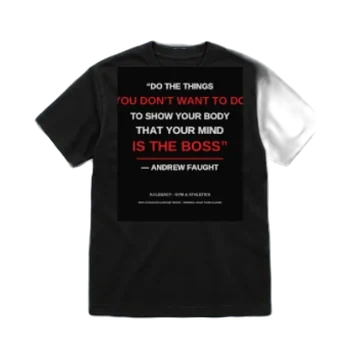
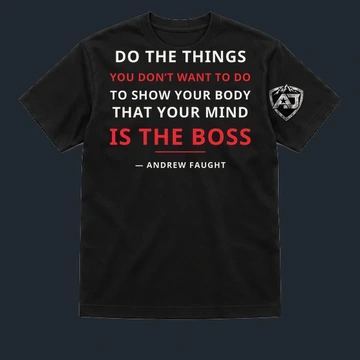
Update Dispatch tee previews and Mind Over Body lettering

diff --git a/assets/first-responders/index.html b/assets/first-responders/index.html
@@ -34,8 +34,8 @@ document.querySelectorAll('.customizer input').forEach(el=>el.addEventListener('
 document.getElementById('copySpec').addEventListener('click',async()=>{try{await navigator.clipboard.writeText(specification());document.getElementById('selectionWarning').textContent='Customization details copied.'}catch(e){document.getElementById('selectionWarning').textContent='Copy unavailable; select and copy the summary above.'}});
 const stripeKey=()=>item.replace(/-(tee|hoodie)$/,'');
 const defaultStripe={'fire-rescue-crest':'Red','fire-rescue-helmet':'Red','ems-flag':'White','dispatch-flag':'Gold','water-life':'Orange'};
-const oldRender=render;let lastDesign='';render=function(){oldRender();if(item!==lastDesign){const stripe=defaultStripe[stripeKey()];$('stripe-label').hidden=!stripe;$('swatches').style.display=stripe?'':'none';document.querySelectorAll('input[name=thinLine]').forEach(x=>{x.disabled=!stripe;x.checked=x.value===stripe});if(item.startsWith('water-')){document.getElementById('garmentColor').value=item.startsWith('water-swift')&&type==='tee'?'Navy':type==='hoodie'?'Charcoal':'Black'}lastDesign=item}refreshSpec()};render();
-</script><script src="../preview-stripes.js?v=2"></script><script src="../model-personalizer.js?v=garment-standard-4"></script><script>
+const oldRender=render;let lastDesign='';render=function(){oldRender();if(item!==lastDesign){if(group==='dispatch'&&type==='tee')$('placement').value='Full Back';const stripe=defaultStripe[stripeKey()];$('stripe-label').hidden=!stripe;$('swatches').style.display=stripe?'':'none';document.querySelectorAll('input[name=thinLine]').forEach(x=>{x.disabled=!stripe;x.checked=x.value===stripe});if(item.startsWith('water-')){document.getElementById('garmentColor').value=item.startsWith('water-swift')&&type==='tee'?'Navy':type==='hoodie'?'Charcoal':'Black'}lastDesign=item}refreshSpec()};render();
+</script><script src="../preview-stripes.js?v=2"></script><script src="../model-personalizer.js?v=dispatch-tee-artwork"></script><script>
 const livePersonalizer=AJModelPersonalizer.create(document.getElementById("livePreview"));
 const tankLabel=document.createElement("label");tankLabel.textContent="Garment style";
 const photoStyle=document.createElement("select");photoStyle.id="photo-style";
@@ -48,6 +48,12 @@ photoStyle.addEventListener("change",()=>{
  if(placement.selectedOptions[0]?.disabled)placement.selectedIndex=0;
  refreshSpec();
 });
-function renderPersonalizedPhoto(){const val=id=>document.getElementById(id)?.value||"";const lines=[...document.querySelectorAll("input[name=thinLine]:checked")].map(x=>x.value);const k9=location.pathname.includes("/k9/");const keys={"k9-handler-partner":"handler-partner","k9-strength-service":"strength-for-service","k9-search-protect":"search-protect"};livePersonalizer.draw({source:k9?"assets/k9/"+keys[item]+".webp":"assets/first-responders/"+(item.startsWith("water-")?waterImage(item,type):item+"-tee.jpg"),stripe:AJPreviewStripes.responder[stripeKey()],box:k9?[0,0,1,1]:item.startsWith("water-")?[.26,.33,.50,.40]:[.23,.18,.64,.80],title:document.getElementById("productTitle").textContent,hoodie:photoStyle.value==="Hoodie"||(photoStyle.value==="Collection default"&&type==="hoodie"),tank:photoStyle.value==="Tank Top",color:val("garmentColor"),placement:val("placement"),lines,name:val("agency"),department:"",badge:"",front:val("frontText"),back:val("backText")});}
+const dispatchTeeArtwork={
+ 'dispatch-flag': {file:'dispatch-flag-print.webp',stripe:['gold','y',[[0,.37,1,.17]]]},
+ 'dispatch-headset': {file:'dispatch-headset-print.webp'}
+};
+function renderPersonalizedPhoto(){const val=id=>document.getElementById(id)?.value||"";const lines=[...document.querySelectorAll("input[name=thinLine]:checked")].map(x=>x.value);const k9=location.pathname.includes("/k9/");const keys={"k9-handler-partner":"handler-partner","k9-strength-service":"strength-for-service","k9-search-protect":"search-protect"};const tee=photoStyle.value==='T-shirt'||(photoStyle.value==='Collection default'&&type==='tee');
+const dispatchArt=tee&&dispatchTeeArtwork[item];
+livePersonalizer.draw({rawArt:Boolean(dispatchArt),source:dispatchArt?'assets/first-responders/'+dispatchArt.file:k9?"assets/k9/"+keys[item]+".webp":"assets/first-responders/"+(item.startsWith("water-")?waterImage(item,type):item+"-tee.jpg"),stripe:dispatchArt?dispatchArt.stripe:AJPreviewStripes.responder[stripeKey()],box:dispatchArt||k9?[0,0,1,1]:item.startsWith("water-")?[.26,.33,.50,.40]:[.23,.18,.64,.80],title:document.getElementById("productTitle").textContent,hoodie:photoStyle.value==="Hoodie"||(photoStyle.value==="Collection default"&&type==="hoodie"),tank:photoStyle.value==="Tank Top",color:val("garmentColor"),placement:val("placement"),lines,name:val("agency"),department:"",badge:"",front:val("frontText"),back:val("backText")});}
 const beforePhotoSpec=refreshSpec;refreshSpec=function(){beforePhotoSpec();renderPersonalizedPhoto()};renderPersonalizedPhoto();document.querySelectorAll(".customizer input,.customizer select").forEach(x=>x.addEventListener("input",renderPersonalizedPhoto));
 </script><script src="../garment-catalog.js?v=inside-neck-1"></script><script src="../service-personalization.js?v=garment-standard-4"></script><script src="../../assets/storefront.js?v=inside-neck-1"></script></body></html>

diff --git a/assets/model-personalizer.js b/assets/model-personalizer.js
@@ -6,14 +6,14 @@ const root=new URL('../',script.src);
 const cache=new Map();
 const colors={Black:'#17191d',Charcoal:'#363a41',Navy:'#152b49','Royal Blue':'#1769aa',White:'#eeeeee','Heather Gray':'#8b9096',Red:'#c8242b',Orange:'#f47721',Olive:'#596245',Blue:'#1769aa',Purple:'#8548a9',Gold:'#e3b126',Silver:'#a6a8ab',Green:'#527b48'};
 function load(url){url=new URL(url,root).href;if(!cache.has(url))cache.set(url,new Promise((resolve,reject)=>{const im=new Image();im.onload=()=>resolve(im);im.onerror=()=>reject(new Error('Preview image could not load'));im.src=url}));return cache.get(url)}
-function artwork(im,box,lineColors=[],stripe){
+function artwork(im,box,lineColors=[],stripe,rawArt=false){
  const c=document.createElement('canvas');
  c.width=Math.max(1,Math.round(im.naturalWidth*box[2]));
  c.height=Math.max(1,Math.round(im.naturalHeight*box[3]));
  const x=c.getContext('2d',{willReadFrequently:true});
  x.drawImage(im,im.naturalWidth*box[0],im.naturalHeight*box[1],im.naturalWidth*box[2],im.naturalHeight*box[3],0,0,c.width,c.height);
  const p=x.getImageData(0,0,c.width,c.height),d=p.data;
- for(let i=0;i<d.length;i+=4){
+ for(let i=0;!rawArt&&i<d.length;i+=4){
   const hi=Math.max(d[i],d[i+1],d[i+2]),lo=Math.min(d[i],d[i+1],d[i+2]);
   const colorful=hi-lo>28&&hi>50;
   d[i+3]=Math.round(d[i+3]*(colorful?Math.min(1,(hi-30)/60):Math.max(0,Math.min(1,(hi-55)/55))));
@@ -50,7 +50,7 @@ window.AJModelPersonalizer={async artwork(source,box,lines,stripe){return artwor
 const [template,source,tankBack,logo]=await Promise.all([
  load(v.tank?'assets/mockups/individual/tank.webp':'assets/studio-garments.webp'),
  load(v.source),v.tank?load('assets/mockups/individual/tank-back.webp'):null,load('assets/logo.png')
-]);if(version!==sequence)return;canvas.width=1536;canvas.height=920;const ctx=canvas.getContext('2d');ctx.drawImage(v.tank?tankPhoto(template,v.color):photo(template,v.hoodie,false,v.color),0,0);ctx.drawImage(v.tank?tankPhoto(tankBack,v.color):photo(template,v.hoodie,true,v.color),768,0);delete canvas.dataset.previewError;const art=artwork(source,v.box||[.22,.36,.20,.36],v.lines,v.stripe);let cx=(back?1152:384),top=v.hoodie?235:185,w=235,h=v.hoodie?190:310;
+]);if(version!==sequence)return;canvas.width=1536;canvas.height=920;const ctx=canvas.getContext('2d');ctx.drawImage(v.tank?tankPhoto(template,v.color):photo(template,v.hoodie,false,v.color),0,0);ctx.drawImage(v.tank?tankPhoto(tankBack,v.color):photo(template,v.hoodie,true,v.color),768,0);delete canvas.dataset.previewError;const art=artwork(source,v.box||[.22,.36,.20,.36],v.lines,v.stripe,v.rawArt);let cx=(back?1152:384),top=v.hoodie?235:185,w=235,h=v.hoodie?190:310;
  if(/Chest/.test(placement)){cx=/Right/.test(placement)?330:438;top=v.hoodie?190:175;w=70;h=75;}else if(/Sleeve/.test(placement)){cx=/Right/.test(placement)?245:520;top=210;w=36;h=48;}else if(placement==='Upper Back'){top=v.hoodie?215:155;w=170;h=145;}else if(back){top=v.hoodie?225:160;w=235;h=335;}
  if(v.tank)top=Math.max(top,220);
  if(!back&&!/Chest|Sleeve/.test(placement)){top=v.hoodie?220:v.tank?220:170;h=Math.min(h,v.hoodie?190:310);}
@@ -61,3 +61,4 @@ const [template,source,tankBack,logo]=await Promise.all([
 
  ctx.fillStyle='#19191a';ctx.fillRect(0,768,1536,62);ctx.fillStyle='#f4f4f4';ctx.font='600 20px Arial';ctx.textAlign='center';ctx.fillText('FRONT',384,805);ctx.fillText('BACK',1152,805);window.AJPlacement.insideLabel(ctx,logo,0,830,1536,90);canvas.dataset.logoSide='Inside';canvas.dataset.brandPlacement=window.AJPlacement.brand.placement;canvas.dataset.badgePlacement='Wearer-left chest';canvas.dataset.previewEngine='live-garment-personalization';canvas.dataset.previewState=JSON.stringify(v);canvas.dataset.renderVersion=String(version);canvas.setAttribute('aria-label',(v.title||'AJ Legacy apparel')+' personalized front and back garment preview');canvas.dispatchEvent(new CustomEvent('previewrendered'));}catch(e){canvas.dataset.previewError=e.message;canvas.dispatchEvent(new CustomEvent('previewerror'));}}}}};
 })();
+

diff --git a/assets/storefront.js b/assets/storefront.js
@@ -359,7 +359,7 @@ if(window.AJStore){
    const quoteDesign=file.endsWith('.svg');
    store.registerArtwork(img,quoteDesign?reviewFile('gym-07.webp'):url('assets/gym-selected/'+file));
    store.lines.gym.push({
-    img,title,kind:'shirt',flag:'none',concept:true,quoteDesign,
+    img,title,kind:'shirt',flag:'none',concept:true,rawArt:quoteDesign,quoteDesign,
     verse:quoteDesign?'Do the things you don’t want to do to show your body that your mind is the boss.':'',
     detail:quoteDesign?'Drew’s words on training and discipline.':'Selected Gym Attire artwork.',
    });
